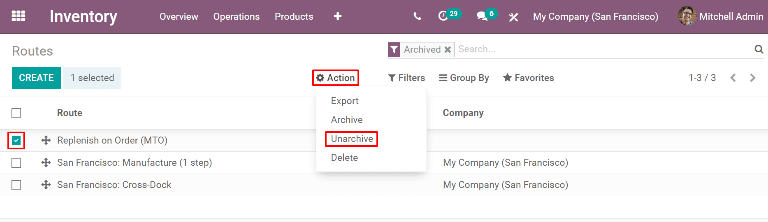
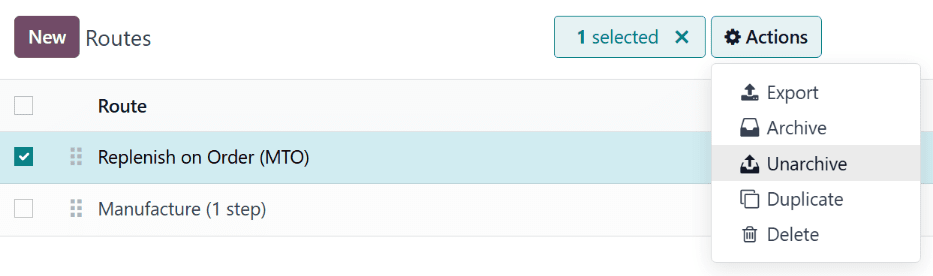
[IMP] Inventory: MTO update
closes odoo/documentation#10977

X-original-commit: 72c6e769068f7682f9b4b9791531bfcc0114800c

diff --git a/content/applications/inventory_and_mrp/inventory/warehouses_storage/replenishment/mto.rst b/content/applications/inventory_and_mrp/inventory/warehouses_storage/replenishment/mto.rst
@@ -2,121 +2,138 @@
 Replenish on order (MTO)
 ========================
 
+.. |SO| replace:: :abbr:`SO (sales order)`
+.. |SOs| replace:: :abbr:`SOs (sales orders)`
+.. |MO| replace:: :abbr:`MO (manufacturing order)`
+.. |PO| replace:: :abbr:`PO (purchase order)`
 .. |MTO| replace:: :abbr:`MTO (make to order)`
 .. |RFQ| replace:: :abbr:`RFQ (request for quotation)`
 .. |BOM| replace:: :abbr:`BOM (bill of materials)`
 
 *Replenish on order*, also known as *MTO* (make to order), is a replenishment strategy that creates
-a draft order for a product every time a sales order is created for it. For products that are
-purchased from a vendor, a request for quotation (RFQ) is created, while a sales order for a product
-manufactured in-house triggers the creation of a manufacturing order. The creation of a |RFQ| or
-manufacturing order occurs every time a sales order is created, regardless of the current stock
-level of the product being ordered.
+a draft order for a product every time it is required to fulfill a sales order (SO), or when it is
+needed as a component in a manufacturing order (MO).
 
-Unarchive the Replenish on Order (MTO) route
-============================================
+For products that are purchased from a vendor, a request for quotation (RFQ) is created to replenish
+the product, while an |MO| is created for products that are manufactured. The creation of an |RFQ|
+or |MO| occurs every time an |SO| or |MO| that requires the product is confirmed, regardless of the
+current stock level of the product being ordered.
+
+.. important::
+   In order to use the |MTO| route, the :guilabel:`Multi-Step Routes` feature must be enabled. To do
+   so, navigate to :menuselection:`Inventory app --> Configuration --> Settings`, and tick the
+   checkbox next to :guilabel:`Multi-Step Routes`, under the :guilabel:`Warehouse` heading.
+
+   Finally, click :guilabel:`Save` to save the change.
+
+Unarchive MTO route
+===================
 
 By default, Odoo sets the |MTO| route as *archived*. This is because |MTO| is a somewhat niche
 workflow that is only used by certain companies. However, it is easy to unarchive the route in just
 a few simple steps.
 
-To do so, begin by navigating to :menuselection:`Inventory --> Configuration --> Routes`. On the
-:guilabel:`Routes` page, click the :guilabel:`Filters` button and select the :guilabel:`Archived`
-option. This shows all routes that are currently archived.
+To do so, begin by navigating to :menuselection:`Inventory app --> Configuration --> Routes`. On the
+:guilabel:`Routes` page, click the :icon:`fa-caret-down` :guilabel:`(down arrow)` icon on the right
+side of the search bar, and click the :guilabel:`Archived` filter to enable it.
 
 .. image:: mto/archived-filter.png
    :align: center
    :alt: The archived filter on the Routes page.
 
-Enable the checkbox next to :guilabel:`Replenish on Order (MTO)`, then click the :guilabel:`Action`
-button to reveal a drop-down menu. From the drop-down menu, select :guilabel:`Unarchive`.
+After enabling the :guilabel:`Archived` filter, the :guilabel:`Routes` page shows all routes which
+are currently archived. Tick the checkbox next to :guilabel:`Replenish on Order (MTO)`, then click
+the :icon:`fa-cog` :guilabel:`Actions` button to reveal a drop-down menu. From the drop-down menu,
+select :guilabel:`Unarchive`.
 
 .. image:: mto/unarchive-button.png
    :align: center
    :alt: The unarchive action on the Routes page.
 
-Finally, remove the :guilabel:`Archived` filter from the :guilabel:`Search...` bar. The
-:guilabel:`Routes` page will now show all available routes, including :guilabel:`Replenish on Order
-(MTO)`, which is now selectable on the inventory tab of each product page.
+Finally, remove the :guilabel:`Archived` filter from the search bar. The :guilabel:`Routes` page now
+shows all unarchived routes, including :guilabel:`Replenish on Order (MTO)`, which is selectable on
+the *Inventory* tab of each product page.
 
-.. image:: mto/unarchived-mto.png
-   :align: center
-   :alt: The MTO route appears on the Routes page after unarchiving it.
-
-Configure a product to use the MTO route
-========================================
+Configure product for MTO
+=========================
 
 With the |MTO| route unarchived, products can now be properly configured to use replenish on order.
-To do so, begin by going to :menuselection:`Inventory --> Products --> Products`, then select an
-existing product, or click :guilabel:`Create` to configure a new one.
+To do so, begin by going to :menuselection:`Inventory app --> Products --> Products`, then select an
+existing product, or click :guilabel:`New` to configure a new one.
 
 On the product page, select the :guilabel:`Inventory` tab and enable the :guilabel:`Replenish on
-Order (MTO)` route in the :guilabel:`Routes` section, along with one other route.
+Order (MTO)` route in the :guilabel:`Routes` section, along with the :guilabel:`Buy` or
+:guilabel:`Manufacture` route.
 
 .. important::
    The :guilabel:`Replenish on Order (MTO)` route **does not** work unless another route is selected
    as well. This is because Odoo needs to know how to replenish the product when an order is placed
-   for it (buy it, manufacture it, etc.).
+   for it (buy or manufacture it).
 
 .. image:: mto/select-routes.png
    :align: center
    :alt: Select the MTO route and a second route on the Inventory tab.
 
-If the product is purchased from a vendor to fulfill sales orders, enable the :guilabel:`Can be
-Purchased` checkbox under the product name. Doing so makes the :guilabel:`Purchase` tab appear
-alongside the other settings tabs below.
+If the product is purchased from a vendor to fulfill |SOs|, enable the :guilabel:`Can be Purchased`
+checkbox under the product name. Doing so makes the :guilabel:`Purchase` tab appear alongside the
+other tabs below.
 
-Select the :guilabel:`Purchase` tab and specify a :guilabel:`Vendor` and the :guilabel:`Price` they
+Click the :guilabel:`Purchase` tab and specify a :guilabel:`Vendor` and the :guilabel:`Price` they
 sell the product for.
 
-.. image:: mto/specify-vendor.png
-   :align: center
-   :alt: Enable "Can be Purchased" and specify a vendor.
+.. important::
+   Specifying a vendor is essential for this workflow, because Odoo cannot generate an |RFQ| without
+   knowing who the product is purchased from.
 
-If the product is manufactured, make sure that it has a bill of materials (BOM) configured for it.
-To do so, click the :guilabel:`Bill of Materials` smart button at the top of the screen, then click
-:guilabel:`Create` on the :guilabel:`Bill of Materials` page to configure a new |BOM| for the
-product.
+If the product is manufactured, make sure it has a bill of materials (BOM) configured for it. To do
+so, click the :guilabel:`Bill of Materials` smart button at the top of the screen, then click
+:guilabel:`New` on the :guilabel:`Bill of Materials` page to configure a new |BOM| for the product.
 
-On the blank |BOM| form, add the components used to manufacture the product on the
-:guilabel:`Components` tab, along with the operations required for the manufacturing workflow on the
-:guilabel:`Operations` tab.
+.. seealso::
+   For a full overview of |BOM| creation, see the documentation on :doc:`bills of materials
+   <../../../manufacturing/basic_setup/bill_configuration>`.
 
-Finally, click :guilabel:`Save` to save the |BOM|.
-
-Fulfill a sales order using the MTO route
-=========================================
+Replenish using MTO
+===================
 
 After configuring a product to use the |MTO| route, a replenishment order is created for it every
-time a sales order including the product is confirmed. The type of order created depends on the
+time an |SO| or |MO| including the product is confirmed. The type of order created depends on the
 second route selected in addition to |MTO|.
 
-For example, if *Buy* was the second route selected, then a purchase order is created upon
-confirmation of a sales order.
+For example, if *Buy* was the second route selected, then a |PO| is created upon confirmation of an
+|SO|.
 
 .. important::
    When the |MTO| route is enabled for a product, a replenishment order is always created upon
-   confirmation of a sales order. This is the case even if there is enough stock of the product
-   on-hand to fulfill the sales order, without buying or manufacturing additional units of it.
+   confirmation of an |SO| or |MO|. This is the case, even if there is enough stock of the product
+   on-hand to fulfill the |SO|, without buying or manufacturing additional units of it.
 
-While the |MTO| route can be used in unison with a variety of other routes, the *Buy* route is used
-as the example for this workflow. Begin by navigating to the :menuselection:`Sales` app, then click
-:guilabel:`Create`, which opens a blank quotation form.
+While the |MTO| route can be used in unison with the *Buy* or *Manufacture* routes, the *Buy* route
+is used as the example for this workflow. Begin by navigating to the :menuselection:`Sales` app,
+then click :guilabel:`New`, which opens a blank quotation form.
 
-On the blank quotation form, add a :guilabel:`Customer`, then click :guilabel:`Add a product` under
-the :guilabel:`Order Lines` tab, and enter a product that has been configured to use the *MTO* and
-*Buy* routes. Click :guilabel:`Confirm` and the quotation is turned into a sales order.
+On the blank quotation form, add a :guilabel:`Customer`. Then, click :guilabel:`Add a product` under
+the :guilabel:`Order Lines` tab, and enter a product configured to use the *MTO* and *Buy* routes.
+Click :guilabel:`Confirm`, and the quotation is turned into an |SO|.
 
-A :guilabel:`Purchase` smart button now appears in the top-right corner of the sales order. Clicking
-it opens the |RFQ| associated with the sales order.
+A :guilabel:`Purchase` smart button now appears at the top of the page. Clicking it opens the |RFQ|
+associated with the |SO|.
 
-Click :guilabel:`Confirm Order` to confirm the |RFQ|, and turn it into a purchase order. A green
-:guilabel:`Receive Products` button now appears at the top of the purchase order. Once the products
-are received, click :guilabel:`Receive Products` to register them into inventory.
+Click :guilabel:`Confirm Order` to confirm the |RFQ|, and turn it into a |PO|. A purple
+:guilabel:`Receive Products` button now appears above the |PO|. Once the products are received,
+click :guilabel:`Receive Products` to open the receipt order, and click :guilabel:`Validate` to
+enter the products into inventory.
 
-Return to the sales order by clicking the :guilabel:`SO` breadcrumb, or by navigating to
-:menuselection:`Sales --> Orders --> Orders`, and selecting the sales order.
+Return to the |SO| by clicking the :guilabel:`SO` breadcrumb, or by navigating to
+:menuselection:`Sales app --> Orders --> Orders`, and selecting the|SO|.
 
-Finally, click the :guilabel:`Delivery` smart button in the top-right of the order to be taken to
-the delivery order. Once the products have been shipped to the customer, click :guilabel:`Validate`
-to confirm the delivery.
+Finally, click the :guilabel:`Delivery` smart button at the top of the order to open the delivery
+order. Once the products have been shipped to the customer, click :guilabel:`Validate` to confirm
+the delivery.
+
+.. seealso::
+   For information on workflows that include the |MTO| route, see the following documentation:
+
+   - :doc:`resupply_warehouses`
+   - :doc:`../../../manufacturing/subcontracting/subcontracting_basic`
+   - :doc:`../../../manufacturing/advanced_configuration/sub_assemblies`
